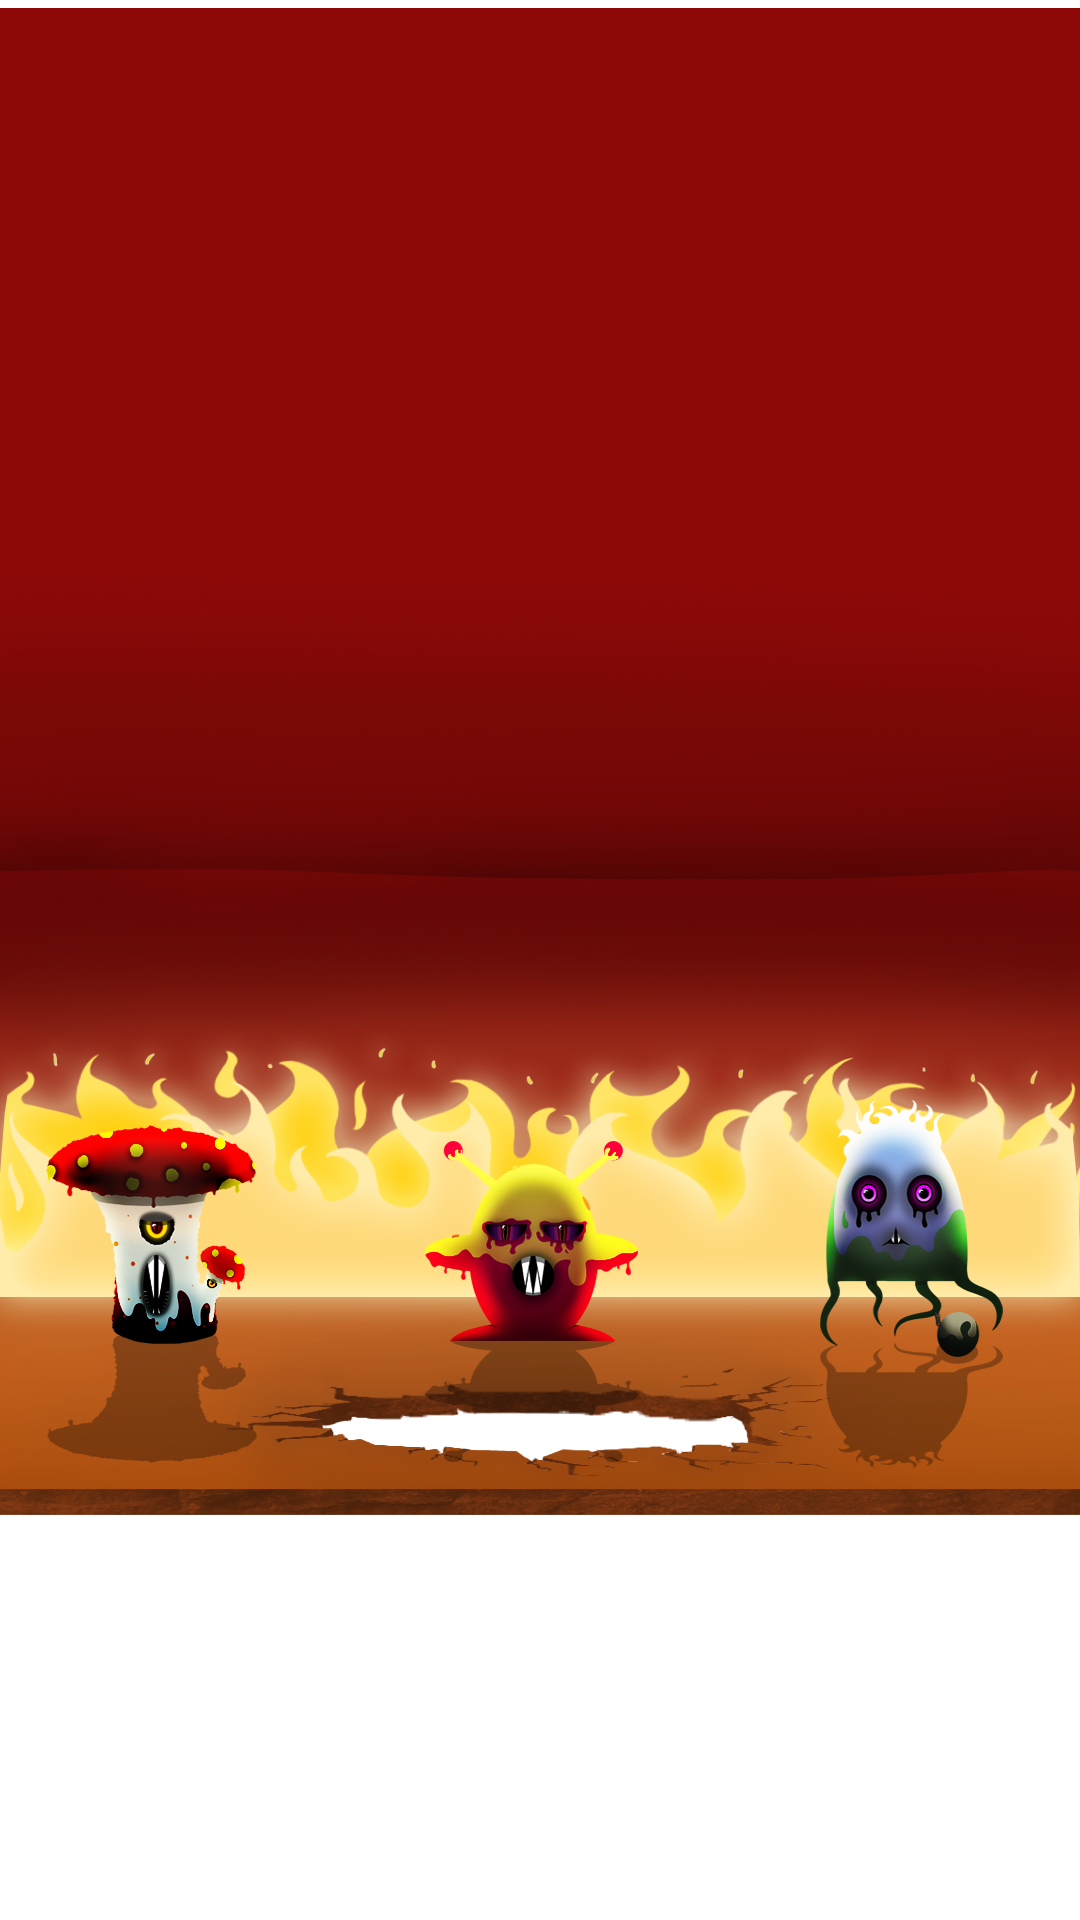
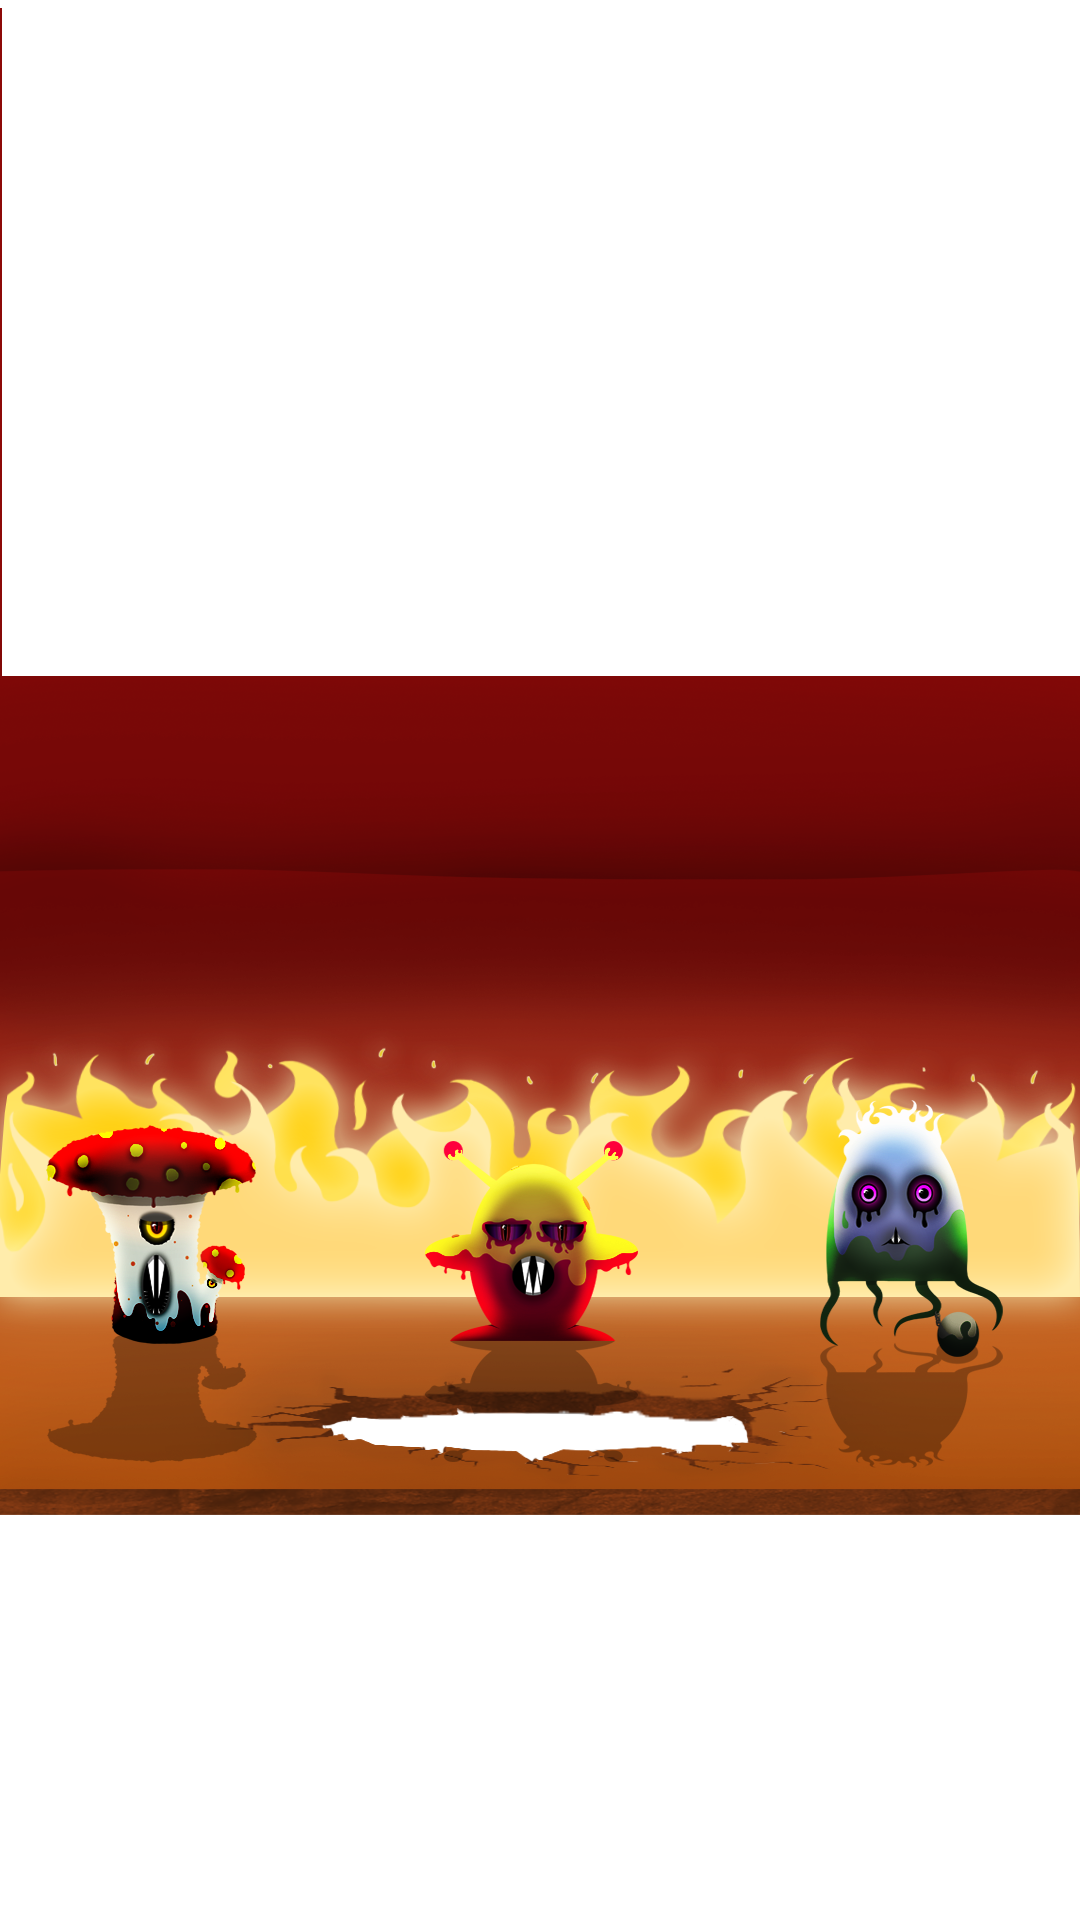
frames flammes animations + pannal

diff --git a/kapotopia/core/src/gdx/kapotopia/Screens/Game2.java b/kapotopia/core/src/gdx/kapotopia/Screens/Game2.java
@@ -82,11 +82,13 @@ public class Game2 implements Screen {
         Image imgBckground2 = new Image(AssetsManager.getInstance().getTextureByPath(GAME_PATH+"Mer.png"));
         Image imgBckground3 = new Image(AssetsManager.getInstance().getTextureByPath(GAME_PATH+"ciel.png"));
         Image imgBckground4 = new Image(AssetsManager.getInstance().getTextureByPath(GAME_PATH+"Palmier1.png"));
+        Image imgBckground5 = new Image(AssetsManager.getInstance().getTextureByPath(GAME_PATH+"UnPANNAL.png"));
         this.stage = new Stage(game.viewport);
         this.stage.addActor(imgBckground);
         this.stage.addActor(imgBckground2);
         this.stage.addActor(imgBckground3);
         this.stage.addActor(imgBckground4);
+        this.stage.addActor(imgBckground5);
         middleX = game.viewport.getWorldWidth()/3;
         middleY = game.viewport.getWorldHeight()/2;
 
